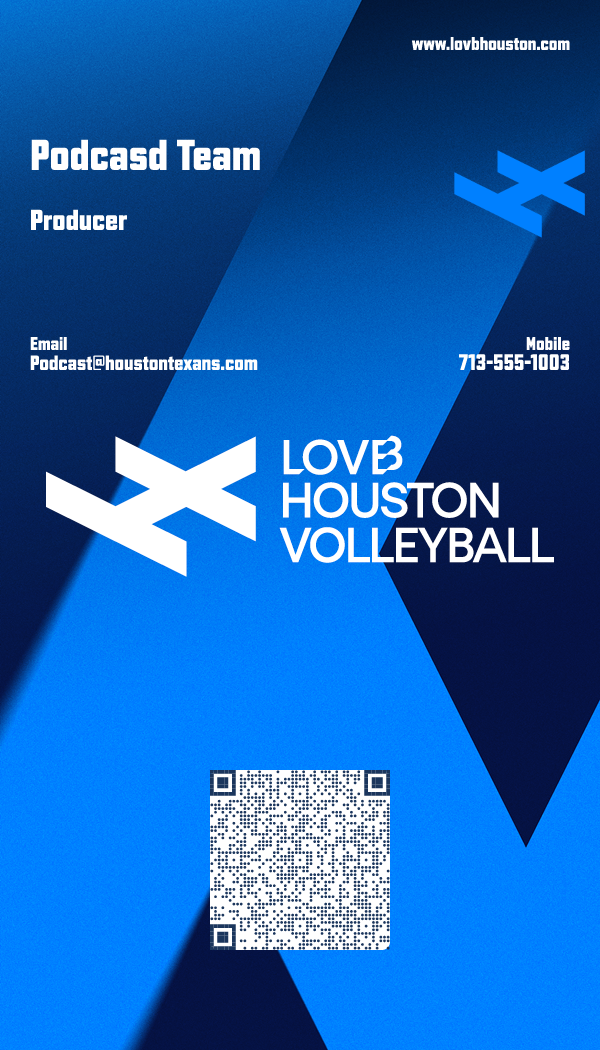
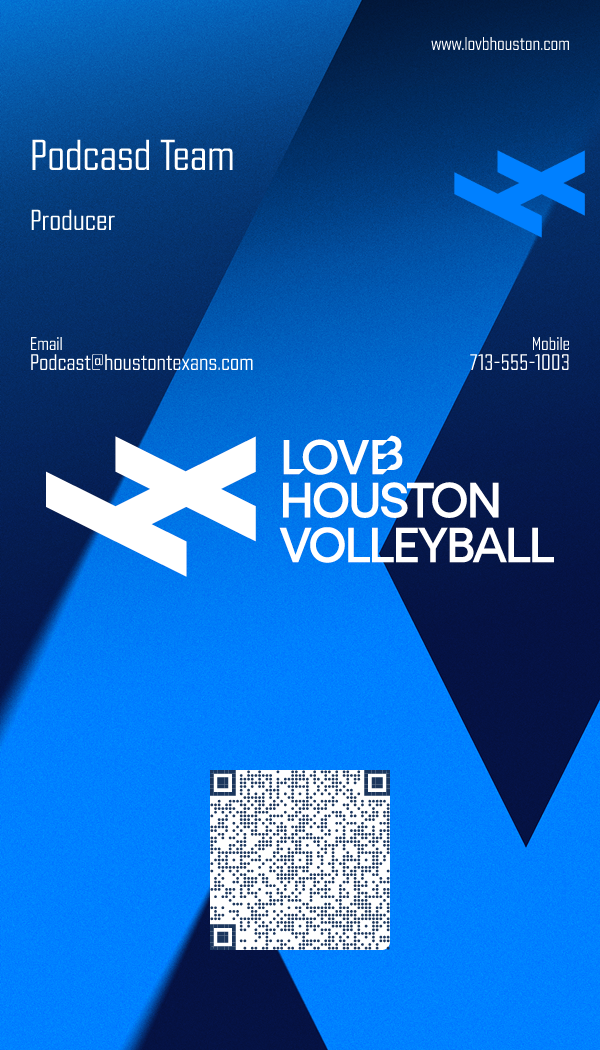
Regenerate card for Podcasd Team

diff --git a/p/d6833262.html b/p/d6833262.html
@@ -7,40 +7,49 @@
   <meta name="description" content="Contact Podcasd Team, Producer at LOVB Houston Volleyball">
   <meta property="og:title" content="Podcasd Team — LOVB Houston Volleyball">
   <meta property="og:description" content="Producer">
-  <meta property="og:image" content="https://TexansDigital.github.io/texans-business-cards/card_Team_Podcasd_d6833262.png">
   <link rel="preconnect" href="https://fonts.googleapis.com">
   <link href="https://fonts.googleapis.com/css2?family=Inter:wght@400;500;600;700&display=swap" rel="stylesheet">
+  <!-- GA4 -->
+  <script async src="https://www.googletagmanager.com/gtag/js?id=G-DFLYVN1338"></script>
+  <script>
+  window.dataLayer=window.dataLayer||[];function gtag(){dataLayer.push(arguments);}
+  gtag('js',new Date());
+  gtag('config','G-DFLYVN1338',{
+    'employee_name':'Podcasd Team',
+    'department':'Content',
+    'brand':'lovb'
+  });
+  function tr(n){gtag('event',n,{'employee_name':'Podcasd Team','department':'Content','brand':'lovb'});}
+  </script>
   <style>
-    :root{--primary:#021018;--accent:#ed0028;--org:#ed0028;--white:#fff;--g50:#f9fafb;--g100:#f3f4f6;--g200:#e5e7eb;--g500:#6b7280;--g800:#1f2937}
     *{margin:0;padding:0;box-sizing:border-box}
-    body{font-family:'Inter',-apple-system,BlinkMacSystemFont,sans-serif;background:var(--g50);color:var(--g800);min-height:100vh;-webkit-font-smoothing:antialiased}
-    .hdr{background:#ffffff;padding:24px 20px 72px;text-align:center;border-top:4px solid #ed0028;border-bottom:1px solid #e5e7eb}
-    .hdr img{height:40px;margin-bottom:8px}
-    .hdr .rule{width:48px;height:3px;background:var(--accent);margin:0 auto}
-    .ct{max-width:420px;margin:-60px auto 0;padding:0 20px 40px}
-    .cf{background:var(--white);border-radius:12px;padding:10px;box-shadow:0 4px 6px rgba(0,0,0,.07),0 12px 28px rgba(0,0,0,.1);margin-bottom:28px}
-    .cf img{width:100%;border-radius:6px;display:block}
-    .cn{font-size:1.5rem;font-weight:700;letter-spacing:-.02em;color:var(--primary);margin-bottom:4px}
-    .cti{font-size:.9rem;color:var(--g500);margin-bottom:6px}
-    .co{display:inline-block;font-size:.7rem;font-weight:600;text-transform:uppercase;letter-spacing:.06em;color:var(--org);margin-bottom:24px}
-    .cd{display:flex;flex-direction:column;gap:10px;margin-bottom:24px}
-    .cr{display:flex;align-items:center;gap:14px;text-decoration:none;color:var(--g800);padding:14px 16px;background:var(--white);border-radius:10px;border:1px solid var(--g200);transition:border-color .15s,box-shadow .15s}
+    body{font-family:'Inter',-apple-system,BlinkMacSystemFont,sans-serif;background:#f9fafb;color:#1f2937;min-height:100vh;-webkit-font-smoothing:antialiased}
+    .hdr{background:#fff;padding:20px 20px 0;text-align:center;border-top:4px solid #0080c6}
+    .hdr img{height:36px;margin-bottom:8px}
+    .hdr .rule{width:48px;height:3px;background:#0080c6;margin:0 auto}
+    .hero{background:#021018;padding:36px 24px 28px;text-align:center}
+    .hero-img{margin:0 auto 16px}
+    .hero h1{font-size:1.5rem;font-weight:700;color:#fff;letter-spacing:-0.02em;margin-bottom:4px}
+    .hero .sub{font-size:0.9rem;color:rgba(255,255,255,0.65)}
+    .hero .org{display:inline-block;font-size:0.7rem;font-weight:600;text-transform:uppercase;letter-spacing:0.08em;color:#0080c6;margin-top:8px}
+    .ct{max-width:420px;margin:0 auto;padding:20px 20px 40px}
+    .cd{display:flex;flex-direction:column;gap:10px;margin-bottom:16px}
+    .cr{display:flex;align-items:center;gap:14px;text-decoration:none;color:#1f2937;padding:14px 16px;background:#fff;border-radius:10px;border:1px solid #e5e7eb;transition:border-color .15s,box-shadow .15s}
     .cr:hover{border-color:#0080c6;box-shadow:0 2px 8px rgba(0,128,198,.1)}
-    .ci{width:36px;height:36px;border-radius:8px;background:var(--g100);display:flex;align-items:center;justify-content:center;flex-shrink:0}
-    .ci svg{width:18px;height:18px;color:var(--primary)}
-    .cr .l{font-size:.7rem;text-transform:uppercase;letter-spacing:.05em;color:var(--g500);margin-bottom:1px}
-    .cr .v{font-size:.95rem;font-weight:500}
-    .acts{display:flex;flex-direction:column;gap:10px;margin-bottom:24px}
-    .btn{display:flex;align-items:center;justify-content:center;gap:8px;width:100%;padding:14px 24px;border:none;border-radius:10px;font-size:.95rem;font-weight:600;font-family:inherit;cursor:pointer;transition:opacity .15s,transform .1s;text-decoration:none}
+    .ci{width:36px;height:36px;border-radius:8px;background:#f3f4f6;display:flex;align-items:center;justify-content:center;flex-shrink:0}
+    .ci svg{width:18px;height:18px;color:#1B365D}
+    .cr .l{font-size:0.7rem;text-transform:uppercase;letter-spacing:.05em;color:#6b7280;margin-bottom:1px}
+    .cr .v{font-size:0.95rem;font-weight:500}
+    .btn{display:flex;align-items:center;justify-content:center;gap:8px;width:100%;padding:14px 24px;border:none;border-radius:10px;font-size:0.95rem;font-weight:600;font-family:inherit;cursor:pointer;transition:opacity .15s,transform .1s;text-decoration:none}
     .btn:hover{opacity:.9}.btn:active{transform:scale(.98)}
     .btn svg{width:18px;height:18px}
-    .bp{background:var(--primary);color:var(--white)}
-    .bs{background:var(--white);color:var(--primary);border:1.5px solid var(--g200)}
-    .bs:hover{border-color:var(--primary)}
-    .ft{text-align:center;padding-top:8px;border-top:1px solid var(--g200)}
-    .ft img{height:20px;opacity:.3;margin-bottom:8px}
-    .ft p{font-size:.7rem;color:var(--g500)}
-    .toast{position:fixed;bottom:24px;left:50%;transform:translateX(-50%) translateY(80px);background:var(--primary);color:#fff;padding:12px 24px;border-radius:10px;font-size:.85rem;font-weight:500;opacity:0;transition:transform .3s,opacity .3s;z-index:100}
+    .bp{background:#1B365D;color:#fff}
+    .bs{background:#fff;color:#1B365D;border:1.5px solid #e5e7eb}
+    .bs:hover{border-color:#1B365D}
+    .ft{text-align:center;padding-top:16px;margin-top:8px;border-top:1px solid #e5e7eb}
+    .ft img{height:18px;opacity:.25;margin-bottom:6px}
+    .ft p{font-size:0.7rem;color:#9ca3af}
+    .toast{position:fixed;bottom:24px;left:50%;transform:translateX(-50%) translateY(80px);background:#1B365D;color:#fff;padding:12px 24px;border-radius:10px;font-size:.85rem;font-weight:500;opacity:0;transition:transform .3s,opacity .3s;z-index:100}
     .toast.show{transform:translateX(-50%) translateY(0);opacity:1}
   </style>
 </head>
@@ -49,58 +58,57 @@
     <img src="https://raw.githubusercontent.com/TexansDigital/texans-business-cards/main/lovb%20logo.png" alt="LOVB Houston Volleyball">
     <div class="rule"></div>
   </div>
+  <div class="hero">
+    <div class="hero-img"><img src="https://raw.githubusercontent.com/TexansDigital/texans-business-cards/main/LOVB%20logo%20solo%20blue.png" alt="" style="height:64px;object-fit:contain;"></div>
+    <h1>Podcasd Team</h1>
+    <p class="sub">Producer</p>
+    <div style="font-size:12px;color:rgba(255,255,255,0.5);margin-top:4px;">Content</div>
+    <span class="org">LOVB Houston Volleyball</span>
+  </div>
   <div class="ct">
-    <button class="btn bp" onclick="saveContact()" style="margin-bottom:16px">
+    <button class="btn bp" onclick="saveContact()" style="margin-bottom:10px">
       <svg xmlns="http://www.w3.org/2000/svg" fill="none" viewBox="0 0 24 24" stroke-width="1.5" stroke="currentColor"><path stroke-linecap="round" stroke-linejoin="round" d="M19 7.5v3m0 0v3m0-3h3m-3 0h-3m-2.25-4.125a3.375 3.375 0 11-6.75 0 3.375 3.375 0 016.75 0zM4 19.235v-.11a6.375 6.375 0 0112.75 0v.109A12.318 12.318 0 0110.374 21c-2.331 0-4.512-.645-6.374-1.766z"/></svg>
       Save contact
     </button>
-    <div class="cf">
-      <img src="https://TexansDigital.github.io/texans-business-cards/card_Team_Podcasd_d6833262.png" alt="Podcasd Team business card">
-    </div>
-    <h1 class="cn">Podcasd Team</h1>
-    <p class="cti">Producer</p>
-    <span class="co">LOVB Houston Volleyball</span>
     <div class="cd">
-      <a href="mailto:podcast@houstontexans.com" class="cr">
+      <a href="mailto:podcast@houstontexans.com" class="cr" onclick="tr('click_email')">
         <div class="ci">
           <svg xmlns="http://www.w3.org/2000/svg" fill="none" viewBox="0 0 24 24" stroke-width="1.5" stroke="currentColor"><path stroke-linecap="round" stroke-linejoin="round" d="M21.75 6.75v10.5a2.25 2.25 0 01-2.25 2.25h-15a2.25 2.25 0 01-2.25-2.25V6.75m19.5 0A2.25 2.25 0 0019.5 4.5h-15a2.25 2.25 0 00-2.25 2.25m19.5 0v.243a2.25 2.25 0 01-1.07 1.916l-7.5 4.615a2.25 2.25 0 01-2.36 0L3.32 8.91a2.25 2.25 0 01-1.07-1.916V6.75"/></svg>
         </div>
         <div><div class="l">Email</div><div class="v">Podcast@houstontexans.com</div></div>
       </a>
-      <a href="tel:+17135551003" class="cr">
+      <a href="tel:+17135551003" class="cr" onclick="tr('click_phone')">
         <div class="ci">
           <svg xmlns="http://www.w3.org/2000/svg" fill="none" viewBox="0 0 24 24" stroke-width="1.5" stroke="currentColor"><path stroke-linecap="round" stroke-linejoin="round" d="M2.25 6.75c0 8.284 6.716 15 15 15h2.25a2.25 2.25 0 002.25-2.25v-1.372c0-.516-.351-.966-.852-1.091l-4.423-1.106c-.44-.11-.902.055-1.173.417l-.97 1.293c-.282.376-.769.542-1.21.38a12.035 12.035 0 01-7.143-7.143c-.162-.441.004-.928.38-1.21l1.293-.97c.363-.271.527-.734.417-1.173L6.963 3.102a1.125 1.125 0 00-1.091-.852H4.5A2.25 2.25 0 002.25 4.5v2.25z"/></svg>
         </div>
         <div><div class="l">Mobile</div><div class="v">713-555-1003</div></div>
       </a>
     </div>
-    <div class="acts">
-      <a href="https://www.lovbhouston.com/" class="btn bs" target="_blank">
+    <div style="display:flex;flex-direction:column;gap:10px;margin-bottom:24px;">
+      <a href="https://www.lovbhouston.com/" class="btn bs" target="_blank" onclick="tr('click_website')">
         <svg xmlns="http://www.w3.org/2000/svg" fill="none" viewBox="0 0 24 24" stroke-width="1.5" stroke="currentColor"><path stroke-linecap="round" stroke-linejoin="round" d="M12 21a9.004 9.004 0 008.716-6.747M12 21a9.004 9.004 0 01-8.716-6.747M12 21c2.485 0 4.5-4.03 4.5-9S14.485 3 12 3m0 18c-2.485 0-4.5-4.03-4.5-9S9.515 3 12 3m0 0a8.997 8.997 0 017.843 4.582M12 3a8.997 8.997 0 00-7.843 4.582m15.686 0A11.953 11.953 0 0112 10.5c-2.998 0-5.74-1.1-7.843-2.918m15.686 0A8.959 8.959 0 0121 12c0 .778-.099 1.533-.284 2.253m0 0A17.919 17.919 0 0112 16.5c-3.162 0-6.133-.815-8.716-2.247m0 0A9.015 9.015 0 013 12c0-1.605.42-3.113 1.157-4.418"/></svg>
-        Visit www.lovbhouston.com
+        www.lovbhouston.com
       </a>
     </div>
     <div class="ft">
       <img src="https://raw.githubusercontent.com/TexansDigital/texans-business-cards/main/lovb%20logo.png" alt="">
-      <p>Reliant Stadium &middot; Houston, Texas</p>
+      <p>LOVB Houston Volleyball</p>
     </div>
   </div>
   <div class="toast" id="toast">Contact saved</div>
   <script>
   function saveContact(){
+    tr('save_contact');
[1 lines of base64/hex data omitted]
-    try{
-      // Data URI approach — triggers native contact handler on iOS/Android
-      window.location.href='data:text/vcard;charset=utf-8,'+encodeURIComponent(vc);
-    }catch(e){
-      // Fallback: Blob download for desktop
-      var b=new Blob([vc],{type:'text/vcard;charset=utf-8'});
-      var u=URL.createObjectURL(b);
-      var a=document.createElement('a');
-      a.href=u;a.download='Podcasd_Team.vcf';
-      document.body.appendChild(a);a.click();
-      document.body.removeChild(a);URL.revokeObjectURL(u);
-    }
+    var b=new Blob([vc],{type:'text/vcard;charset=utf-8'});
+    var u=URL.createObjectURL(b);
+    var a=document.createElement('a');
+    a.href=u;
+    a.download='Podcasd_Team.vcf';
+    a.style.display='none';
+    document.body.appendChild(a);
+    a.click();
+    setTimeout(function(){document.body.removeChild(a);URL.revokeObjectURL(u);},1000);
     var t=document.getElementById('toast');
     t.classList.add('show');
     setTimeout(function(){t.classList.remove('show')},3000);
